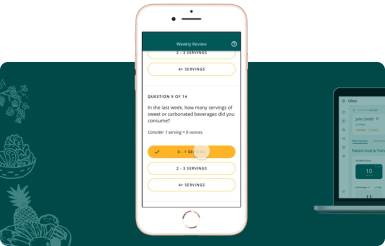
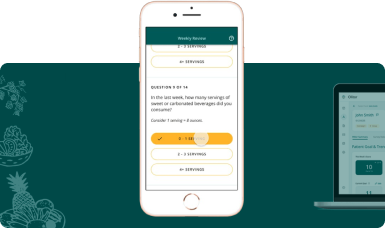
header footer styling etc

diff --git a/app/about/page.tsx b/app/about/page.tsx
@@ -7,10 +7,14 @@ export default function About() {
 
       <main className="w-full mx-auto py-12 md:py-20">
         {/* Intro Section */}
-        <div className="max-w-xl mx-auto mb-16 md:mb-24">
-          <p className="text-lg md:text-xl leading-relaxed text-gray-700">
-            Hey! This is Siddhant, your friendly neighborhood creative technologist :)
-          </p>
+        <div className="max-w-xl mx-auto mb-16 md:mb-24 font-light">
+          <div className="flex flex-col items-start">
+            <div className="w-32 h-32 rounded-full bg-gray-200 mb-8 overflow-hidden" />
+            <p className="text-lg md:text-xl leading-relaxed text-gray-700">
+              Hey! This is Siddhant, your friendly neighborhood creative technologist :)
+            </p>
+          </div>
+
           <p className="mt-4 text-lg md:text-xl leading-relaxed text-gray-700">
             I am in an exploratory phase in my career, looking to leverage the various skills acquired so far — across UX design, technology and art — onto new innovative frontiers.
           </p>
@@ -18,14 +22,14 @@ export default function About() {
 
         {/* Background Section */}
         <section className="mb-16 md:mb-24">
-          <h2 className="max-w-xl mx-auto text-2xl md:text-3xl font-bold mb-12 text-gray-900">
+          <h2 className="max-w-xl mx-auto text-2xl md:text-3xl font-bold mb-12">
             My background
           </h2>
 
           <div className="w-full grid grid-cols-1 md:grid-cols-3 gap-4 md:gap-4">
             {/* Design Card */}
             <div className="p-4 bg-gray-100 rounded-lg">
-              <h3 className="text-xl font-bold mb-4 text-gray-900">Design</h3>
+              <h3 className="text-xl font-bold mb-4">Design</h3>
               <div className="relative aspect-square mb-4 overflow-hidden rounded-lg">
                 <video
                   src="/about/design.mp4"
@@ -51,7 +55,7 @@ export default function About() {
 
             {/* Technology Card */}
             <div className="p-4 bg-gray-100 rounded-lg">
-              <h3 className="text-xl font-bold mb-4 text-gray-900">Technology</h3>
+              <h3 className="text-xl font-bold mb-4">Technology</h3>
               <div className="relative aspect-square mb-4 overflow-hidden rounded-lg">
                 <video
                   src="/about/tech.mp4"
@@ -77,7 +81,7 @@ export default function About() {
 
             {/* Art Card */}
             <div className="p-4 bg-gray-100 rounded-lg">
-              <h3 className="text-xl font-bold mb-4 text-gray-900">Art</h3>
+              <h3 className="text-xl font-bold mb-4">Art</h3>
               <div className="relative aspect-square mb-4 overflow-hidden rounded-lg">
                 <video
                   src="/about/art.mp4"
@@ -102,12 +106,12 @@ export default function About() {
 
         {/* Interests Section */}
         <section className="max-w-xl mx-auto">
-          <h2 className="text-2xl md:text-3xl font-bold mb-8 text-gray-900">
+          <h2 className="text-3xl font-bold mb-8">
             I love working on...
           </h2>
           <ul className="grid grid-cols-1 md:grid-cols-2 gap-6">
             <li className="bg-gray-100 rounded-lg p-6">
-              <h3 className="text-lg font-semibold mb-3 text-gray-900">
+              <h3 className="text-lg font-semibold mb-3">
                 Prototyping & Proof of Concepts
               </h3>
               <p className="text-gray-600">
@@ -115,7 +119,7 @@ export default function About() {
               </p>
             </li>
             <li className="bg-gray-100 rounded-lg p-6">
-              <h3 className="text-lg font-semibold mb-3 text-gray-900">
+              <h3 className="text-lg font-semibold mb-3">
                 Innovative Explorations
               </h3>
               <p className="text-gray-600">
@@ -123,7 +127,7 @@ export default function About() {
               </p>
             </li>
             <li className="bg-gray-100 rounded-lg p-6">
-              <h3 className="text-lg font-semibold mb-3 text-gray-900">
+              <h3 className="text-lg font-semibold mb-3">
                 Emerging Tech
               </h3>
               <p className="text-gray-600">
@@ -131,7 +135,7 @@ export default function About() {
               </p>
             </li>
             <li className="bg-gray-100 rounded-lg p-6">
-              <h3 className="text-lg font-semibold mb-3 text-gray-900">
+              <h3 className="text-lg font-semibold mb-3">
                 Social Impact
               </h3>
               <p className="text-gray-600">
@@ -139,7 +143,7 @@ export default function About() {
               </p>
             </li>
             <li className="bg-gray-100 rounded-lg p-6">
-              <h3 className="text-lg font-semibold mb-3 text-gray-900">
+              <h3 className="text-lg font-semibold mb-3">
                 Art with Tech
               </h3>
               <p className="text-gray-600">

diff --git a/app/components/Footer.tsx b/app/components/Footer.tsx
@@ -1,6 +1,6 @@
 "use client";
 
-import { Copy, Linkedin, Twitter, Instagram } from "iconoir-react";
+import { Copy, Linkedin, Twitter, Instagram, X } from "iconoir-react";
 import { useState } from "react";
 
 export default function Footer() {
@@ -18,53 +18,52 @@ export default function Footer() {
   };
 
   return (
-    <footer className="row-start-3 flex flex-col items-center justify-center h-64 pb-16 bg-gray700 text-white lg:w-[calc(100%-4rem)] mx-auto relative before:content-[''] before:absolute before:inset-0 before:left-1/2 before:-translate-x-1/2 before:w-screen before:bg-gray-700 before:-z-10">
-      <nav className="flex gap-6 mb-8">
-        <a
-          href="https://www.linkedin.com/in/patilsiddhant/"
-          target="_blank"
-          rel="noopener noreferrer"
-          className="flex items-center gap-2 hover:text-gray-300 transition-colors"
-        >
-          <Linkedin className="w-5 h-5" />
-          <span>LinkedIn</span>
-        </a>
-        <a
-          href="https://x.com/sidomatic11"
-          target="_blank"
-          rel="noopener noreferrer"
-          className="flex items-center gap-2 hover:text-gray-300 transition-colors"
-        >
-          <Twitter className="w-5 h-5" />
-          <span>Twitter</span>
-        </a>
-        <a
-          href="https://www.instagram.com/sidomatic11/"
-          target="_blank"
-          rel="noopener noreferrer"
-          className="flex items-center gap-2 hover:text-gray-300 transition-colors"
-        >
-          <Instagram className="w-5 h-5" />
-          <span>Instagram</span>
-        </a>
-      </nav>
-      <div className="flex items-center gap-4">
-        <a
-          href={`mailto:${email}`}
-          className="hover:text-gray-300 transition-colors"
-        >
-          {email}
-        </a>
-        <button
-          onClick={copyToClipboard}
-          className="p-2 hover:bg-gray-800 rounded-full transition-colors"
-          aria-label="Copy email to clipboard"
-        >
-          <Copy className="w-5 h-5" />
-        </button>
-        {copySuccess && (
-          <span className="text-sm text-green-400">Copied!</span>
-        )}
+    <footer className="row-start-3 border-t border-gray-900 flex flex-col items-center justify-center h-64 bg-white text-gray-700 mx-auto relative before:content-[''] before:absolute before:inset-0 before:left-1/2 before:-translate-x-1/2 before:w-screen before:bg-white before:-z-10 pb-16 sm:pb-0">
+      <div className="w-full max-w-96 mx-auto px-8">
+        <nav className="w-full flex gap-6 mb-4">
+          <a
+            href="https://www.linkedin.com/in/patilsiddhant/"
+            target="_blank"
+            rel="noopener noreferrer"
+            className="h-10 flex-1 flex items-center justify-center gap-2 text-gray-900 hover:bg-gray-200 transition-colors py-2 border border-gray-900 rounded-md"
+          >
+            <Linkedin className="w-5 h-5" />
+
+          </a>
+          <a
+            href="https://x.com/sidomatic11"
+            target="_blank"
+            rel="noopener noreferrer"
+            className="h-10 flex-1 flex items-center justify-center gap-2 text-gray-900 hover:bg-gray-200 transition-colors py-2 border border-gray-900 rounded-md"
+          >
+            <X className="w-5 h-5" />
+
+          </a>
+          <a
+            href="https://www.instagram.com/sidomatic11/"
+            target="_blank"
+            rel="noopener noreferrer"
+            className="h-10 flex-1 flex items-center justify-center gap-2 text-gray-900 hover:bg-gray-200 transition-colors py-2 border border-gray-900 rounded-md"
+          >
+            <Instagram className="w-5 h-5" />
+
+          </a>
+        </nav>
+        <div className="w-full flex items-center justify-between gap-4 h-10 border border-gray-900 rounded-md overflow-hidden">
+          <a
+            href={`mailto:${email}`}
+            className="px-4 font-light hover:font-medium transition-all"
+          >
+            {copySuccess ? "Copied!" : email}
+          </a>
+          <button
+            onClick={copyToClipboard}
+            className="p-2 hover:bg-gray-200 w-12 h-full flex items-center justify-center transition-colors cursor-pointer"
+            aria-label="Copy email to clipboard"
+          >
+            <Copy className="w-5 h-5" />
+          </button>
+        </div>
       </div>
     </footer>
   );

diff --git a/app/components/header.tsx b/app/components/header.tsx
@@ -6,10 +6,10 @@ export default function Header({ toggleExploreSolve, isExploreVisible, isProject
 
 
 	return (
-		<header className="w-full flex items-center justify-between h-16 bg-white fixed bottom-0 left-0 right-0 z-50 shadow-[inset_0_1px_0_0_black] sm:top-0 sm:shadow-[0_1px_0_0_black]">
+		<header className="w-full flex items-center justify-between h-16 bg-white fixed bottom-0 left-0 right-0 z-50 border-y border-gray-900 sm:top-0 ">
 
-			<div className="w-full max-w-5xl mx-auto h-full flex items-center justify-between lg:px-8">
-				<div className="shadow-[inset_-1px_0_0_0_black,-1px_0_0_0_black] h-full w-16 flex items-center justify-center flex-shrink-0">
+			<div className="w-full max-w-5xl mx-auto lg:w-[calc(100%-4rem)] h-full flex items-center justify-between">
+				<div className="border-r lg:border-x border-gray-900 h-full w-16 flex items-center justify-center flex-shrink-0">
 					<Link href="/" className="h-full w-full flex items-center justify-center">
 						{isProjectHeader ? <ArrowLeft className="w-6 h-6" /> : <Home className="w-6 h-6" />}
 					</Link>
@@ -21,7 +21,7 @@ export default function Header({ toggleExploreSolve, isExploreVisible, isProject
 					</div>
 				)}
 
-				<div className="shadow-[1px_0_0_0_black,inset_1px_0_0_0_black] h-full w-16 flex items-center justify-center flex-shrink-0">
+				<div className="border-l lg:border-x border-gray-900 h-full w-16 flex items-center justify-center flex-shrink-0">
 					{!isProjectHeader && <Link href="/about" className="h-full w-full flex items-center justify-center"><InfoCircle className="w-6 h-6" /></Link>}
 				</div>
 			</div>

diff --git a/app/layout.tsx b/app/layout.tsx
@@ -17,8 +17,8 @@ export default function RootLayout({
 }>) {
 	return (
 		<html lang="en">
-			<body className={`${inter.className} max-w-5xl mx-auto`}>
-				<div className="min-h-screen w-full lg:w-[calc(100%-4rem)] mx-auto relative pb-32 sm:pt-16 text-gray-700 px-8 lg:px-0">
+			<body className={`${inter.className} w-full overflow-x-hidden`}>
+				<div className="min-h-screen max-w-5xl mx-auto lg:w-[calc(100%-4rem)] relative pb-32 sm:pt-16 text-gray-700 px-8 lg:px-0">
 					{children}
 				</div>
 				<Footer />

diff --git a/app/page.tsx b/app/page.tsx
@@ -207,7 +207,7 @@ function HomeContent() {
 				)}
 			</main>
 
-			<div className="absolute bottom-[-1px] left-0 w-full h-full z-[-1]">
+			{/* <div className="absolute bottom-[-1px] left-0 w-full h-full z-[-1]">
 				<motion.div
 					key={imageSrc}
 					initial={{ y: 100, opacity: 0 }}
@@ -226,7 +226,7 @@ function HomeContent() {
 						priority
 					/>
 				</motion.div>
-			</div>
+			</div> */}
 
 		</div>
 	);
